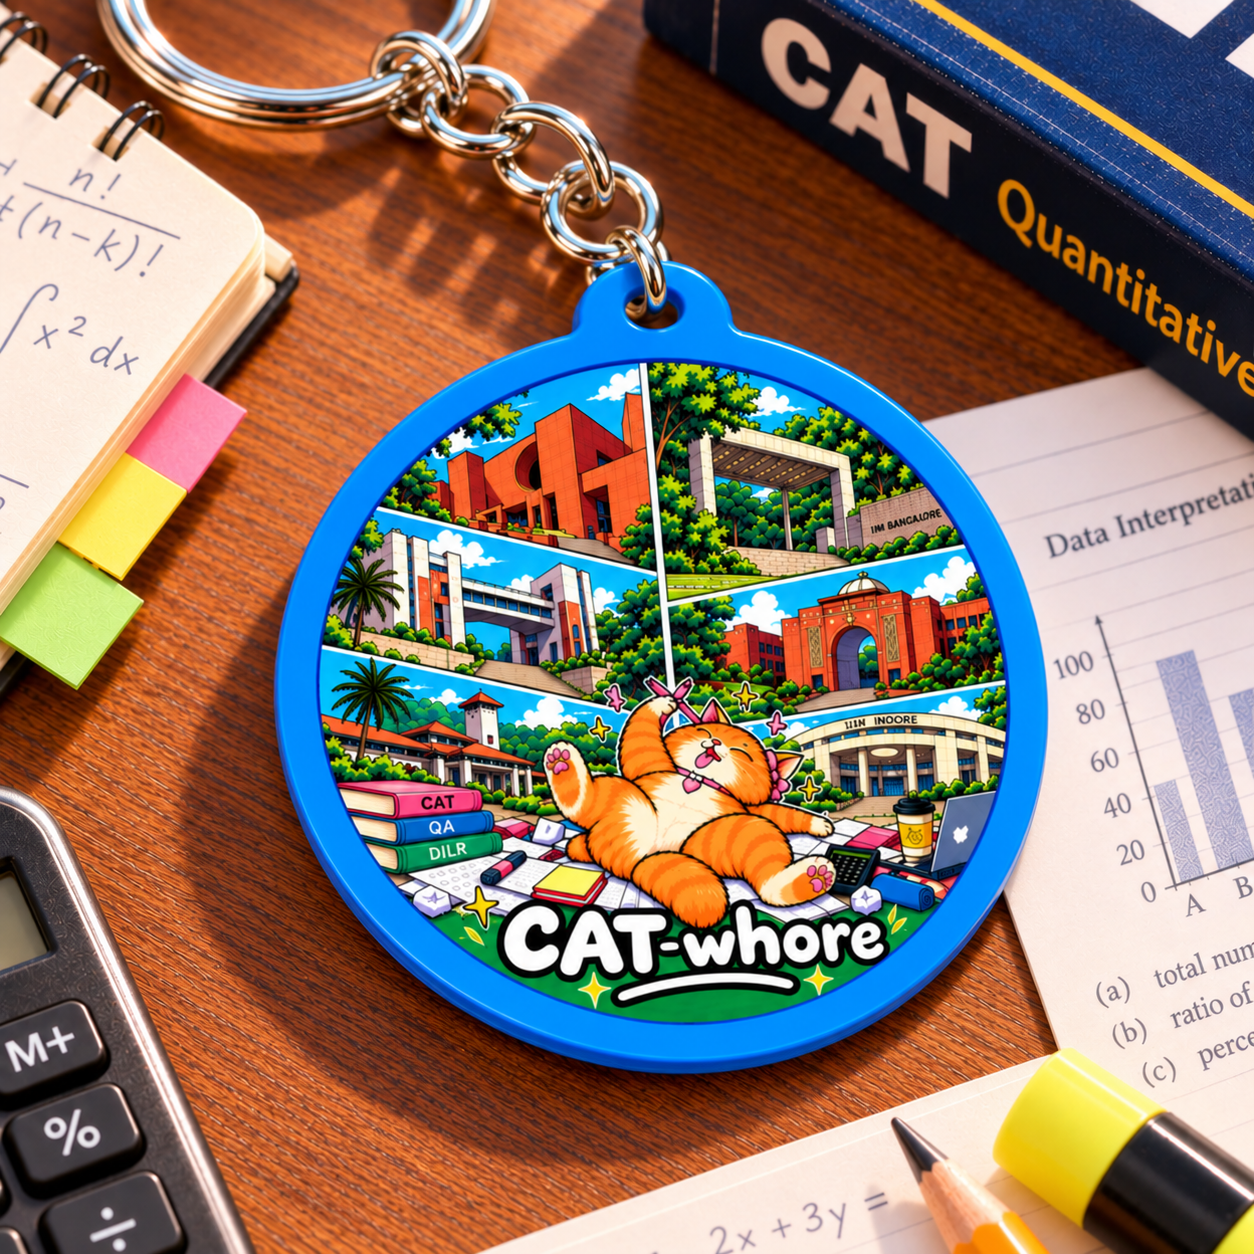
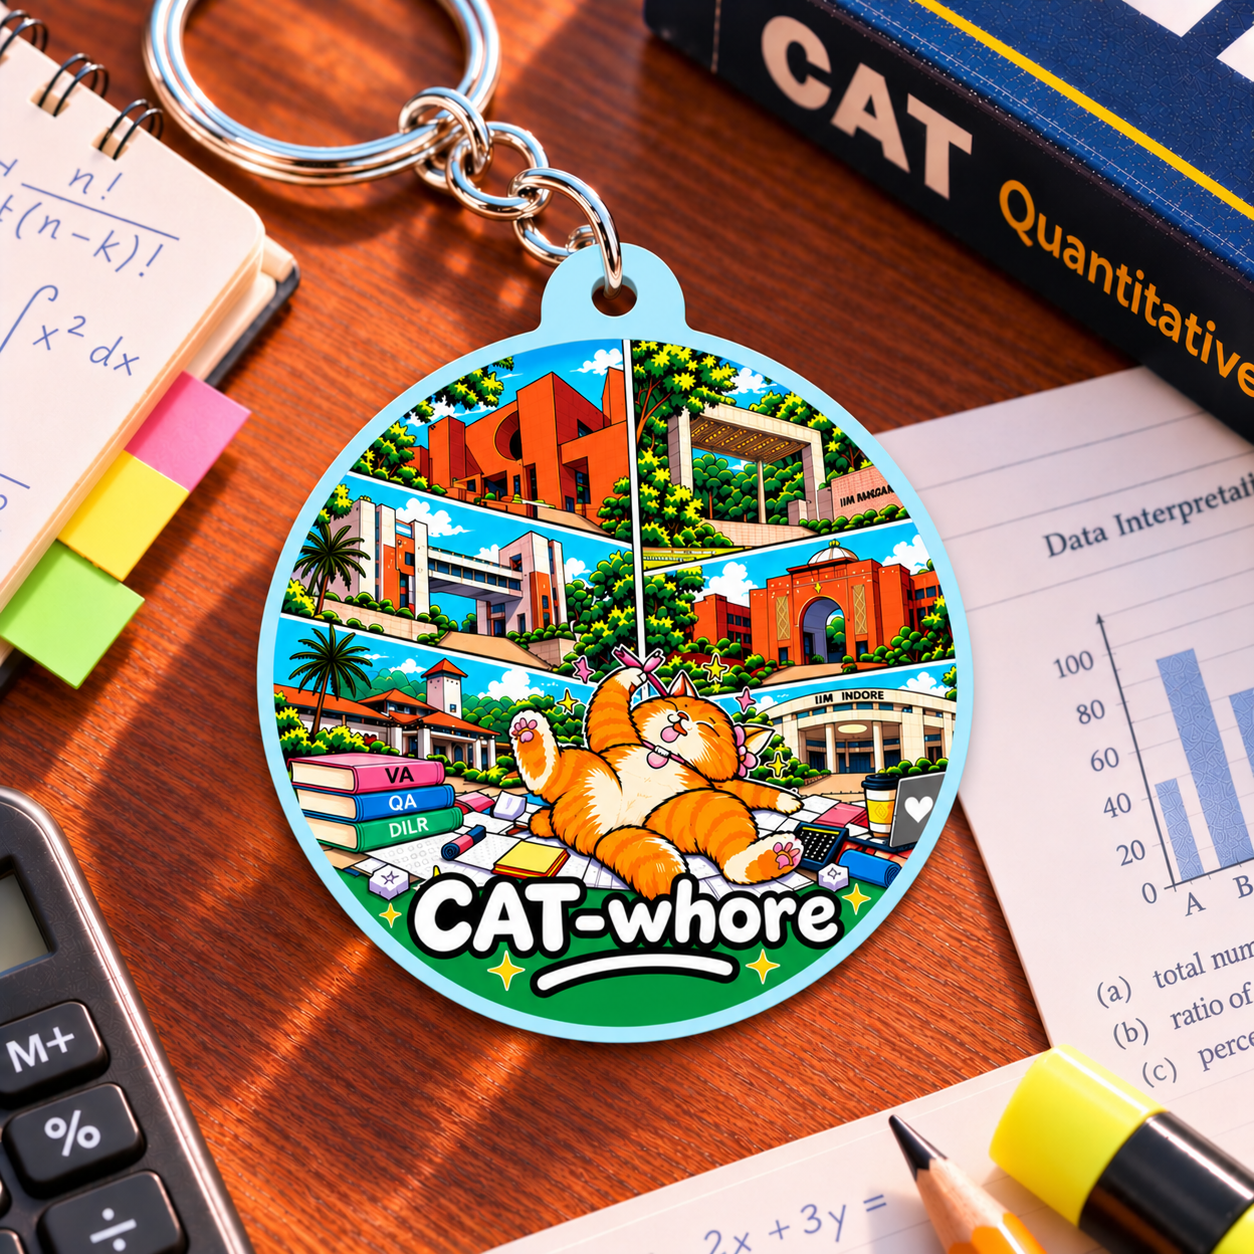
Update CAT Whore product artwork with newly uploaded high-res keychain photo

diff --git a/index.html b/index.html
@@ -13,11 +13,11 @@
     <link rel="preconnect" href="https://fonts.googleapis.com">
     <link rel="preconnect" href="https://fonts.gstatic.com" crossorigin>
     <link href="https://fonts.googleapis.com/css2?family=DM+Sans:wght@400;500;600;700&family=Playfair+Display:ital,wght@0,400;0,500;0,600;1,400;1,500&display=swap" rel="stylesheet">
-    <link rel="stylesheet" href="styles.css?v=1794418008">
+    <link rel="stylesheet" href="styles.css?v=1794418265">
     <script src="https://checkout.razorpay.com/v1/checkout.js" defer></script>
     <script src="https://accounts.google.com/gsi/client" async defer></script>
-    <script src="auth-client.js?v=1794418008" defer></script>
-    <script src="script.js?v=1794418008" defer></script>
+    <script src="auth-client.js?v=1794418265" defer></script>
+    <script src="script.js?v=1794418265" defer></script>
   </head>
   <body>
     <div class="page-glow" aria-hidden="true"></div>
